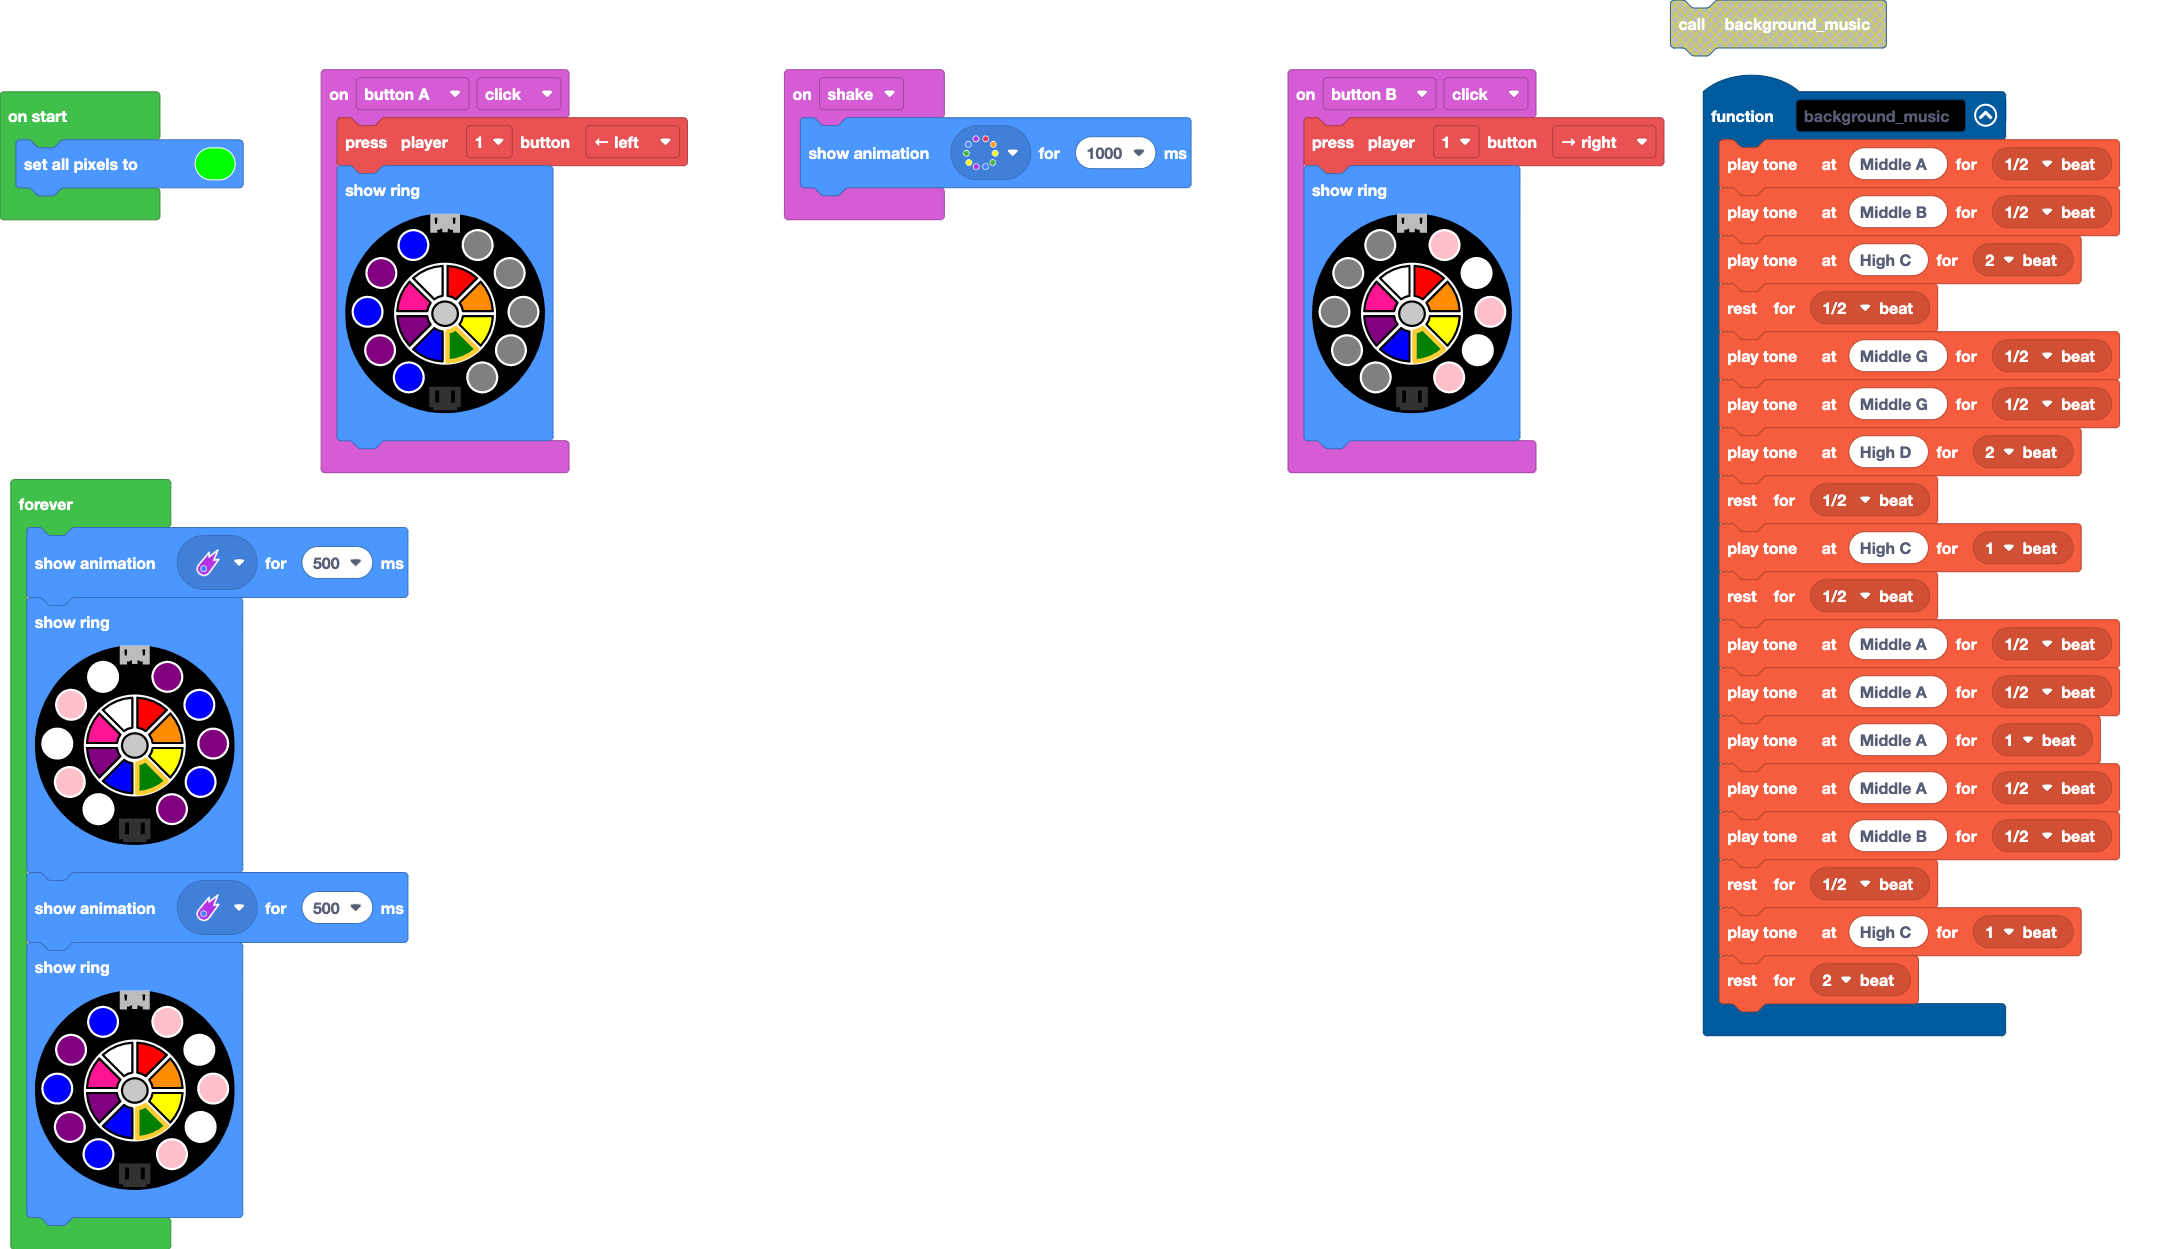
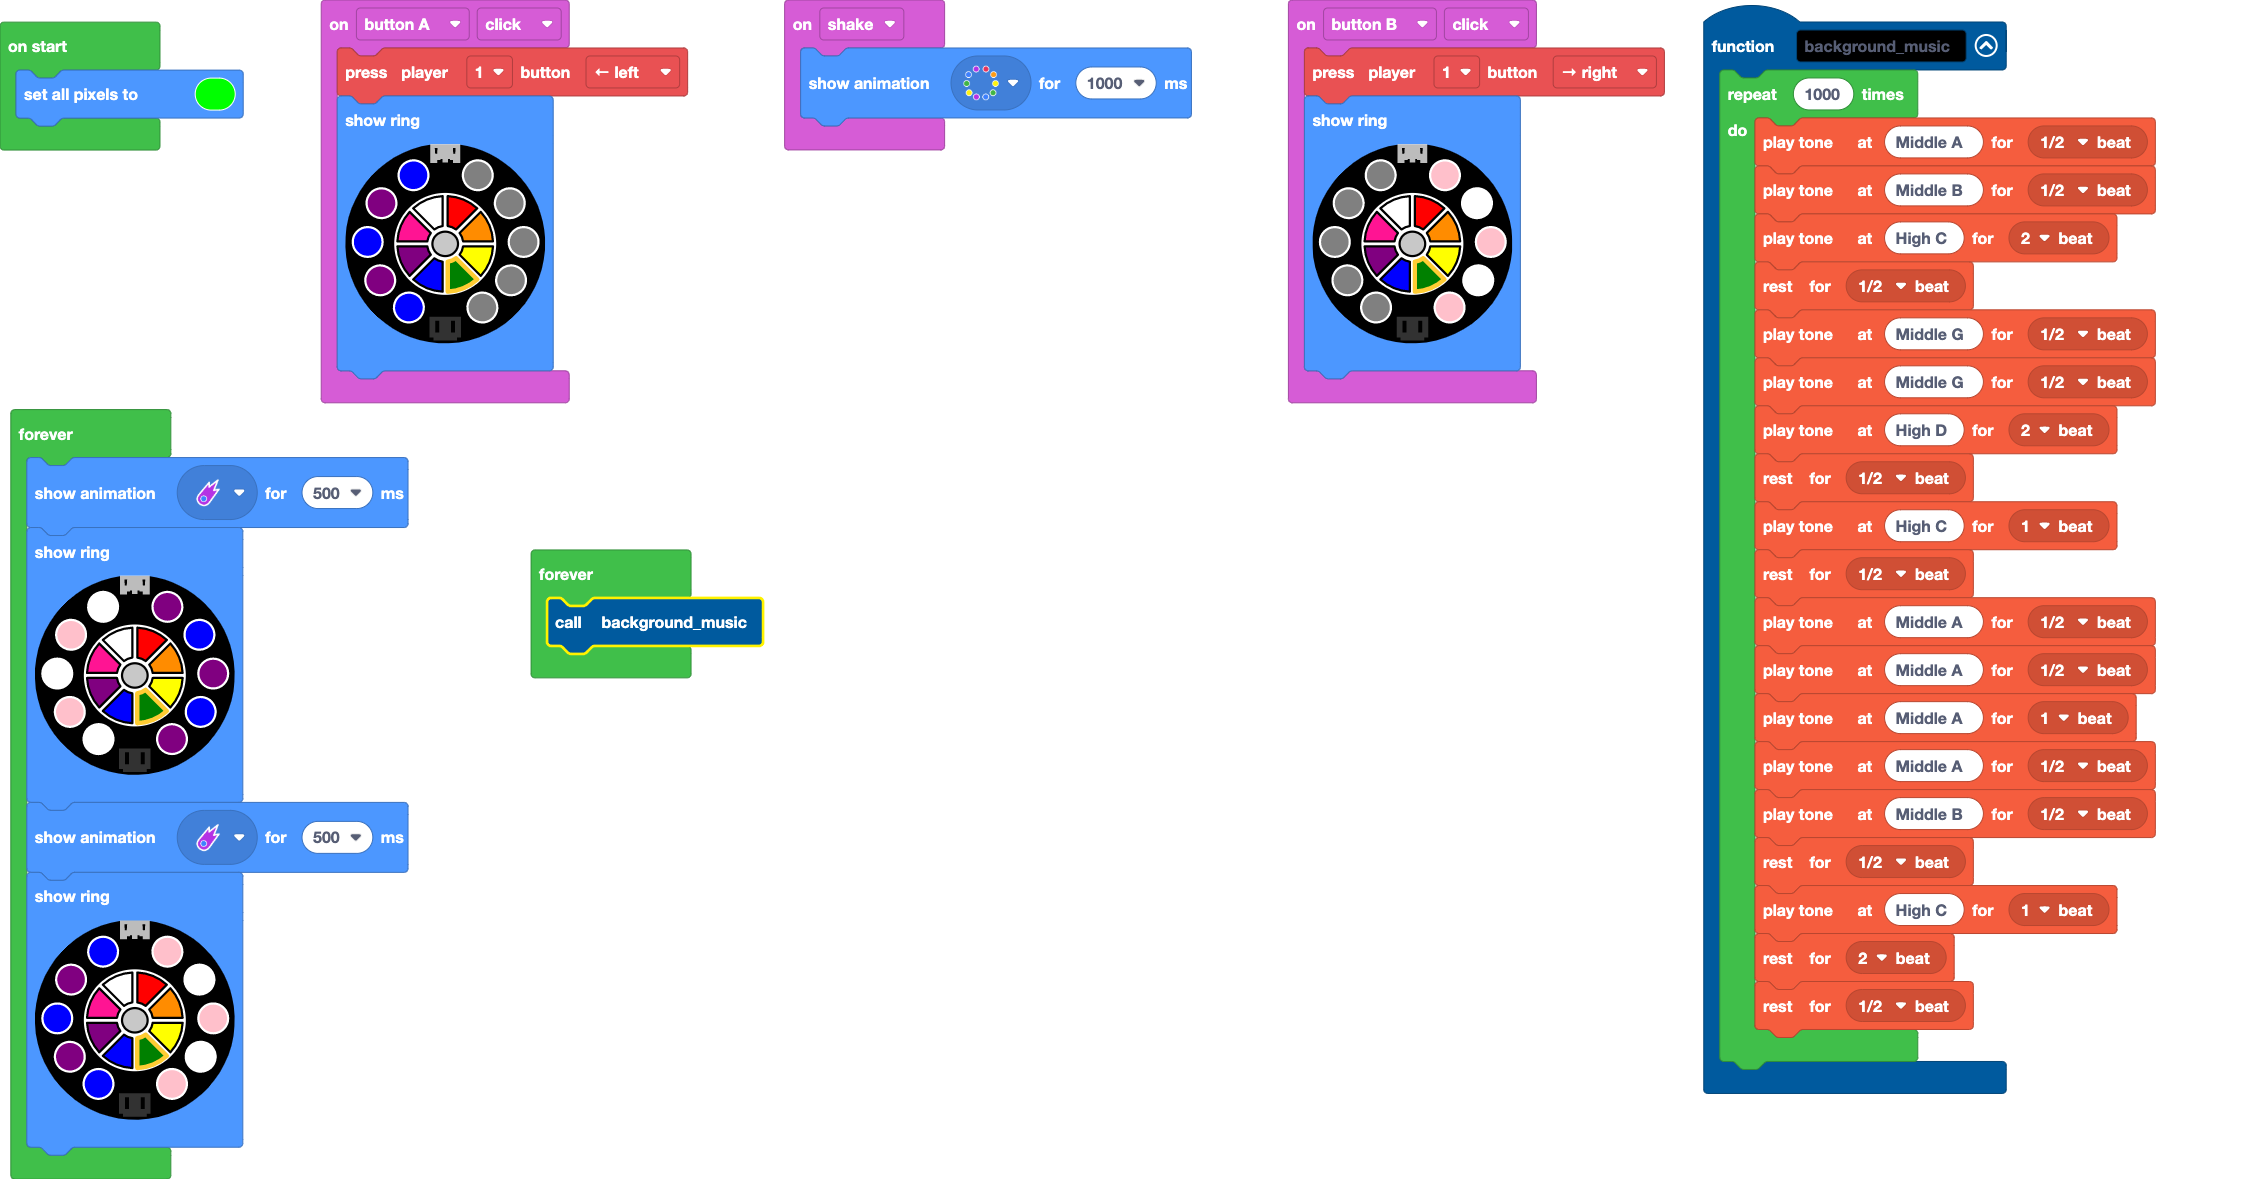
Update main.blocks, main.ts

diff --git a/main.ts b/main.ts
@@ -14,24 +14,27 @@ input.buttonB.onEvent(ButtonEvent.Click, function () {
     )
 })
 function background_music () {
-    music.playTone(440, music.beat(BeatFraction.Half))
-    music.playTone(494, music.beat(BeatFraction.Half))
-    music.playTone(523, music.beat(BeatFraction.Double))
-    music.rest(music.beat(BeatFraction.Half))
-    music.playTone(392, music.beat(BeatFraction.Half))
-    music.playTone(392, music.beat(BeatFraction.Half))
-    music.playTone(587, music.beat(BeatFraction.Double))
-    music.rest(music.beat(BeatFraction.Half))
-    music.playTone(523, music.beat(BeatFraction.Whole))
-    music.rest(music.beat(BeatFraction.Half))
-    music.playTone(440, music.beat(BeatFraction.Half))
-    music.playTone(440, music.beat(BeatFraction.Half))
-    music.playTone(440, music.beat(BeatFraction.Whole))
-    music.playTone(440, music.beat(BeatFraction.Half))
-    music.playTone(494, music.beat(BeatFraction.Half))
-    music.rest(music.beat(BeatFraction.Half))
-    music.playTone(523, music.beat(BeatFraction.Whole))
-    music.rest(music.beat(BeatFraction.Double))
+    for (let index = 0; index < 1000; index++) {
+        music.playTone(440, music.beat(BeatFraction.Half))
+        music.playTone(494, music.beat(BeatFraction.Half))
+        music.playTone(523, music.beat(BeatFraction.Double))
+        music.rest(music.beat(BeatFraction.Half))
+        music.playTone(392, music.beat(BeatFraction.Half))
+        music.playTone(392, music.beat(BeatFraction.Half))
+        music.playTone(587, music.beat(BeatFraction.Double))
+        music.rest(music.beat(BeatFraction.Half))
+        music.playTone(523, music.beat(BeatFraction.Whole))
+        music.rest(music.beat(BeatFraction.Half))
+        music.playTone(440, music.beat(BeatFraction.Half))
+        music.playTone(440, music.beat(BeatFraction.Half))
+        music.playTone(440, music.beat(BeatFraction.Whole))
+        music.playTone(440, music.beat(BeatFraction.Half))
+        music.playTone(494, music.beat(BeatFraction.Half))
+        music.rest(music.beat(BeatFraction.Half))
+        music.playTone(523, music.beat(BeatFraction.Whole))
+        music.rest(music.beat(BeatFraction.Double))
+        music.rest(music.beat(BeatFraction.Half))
+    }
 }
 light.setAll(0x00ff00)
 forever(function () {
@@ -43,4 +46,7 @@ forever(function () {
     light.showRing(
     `blue purple blue purple blue pink white pink white pink`
     )
+})
+forever(function () {
+    background_music()
 })
